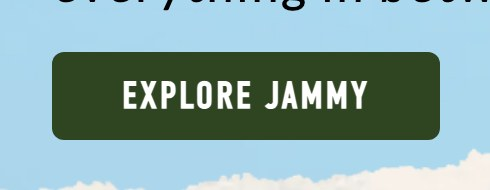
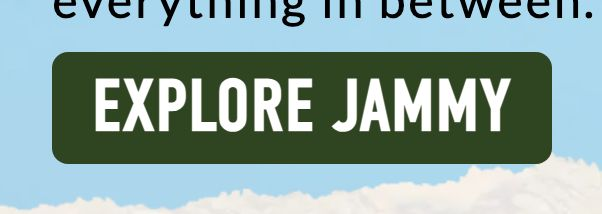
QA item 1: match the Jammy band's button to the page's other CTAs
The button was already DIN Condensed -- the face was never the problem -- but
its treatment was not. It set 20px with 1.6px of tracking (0.086em) and a 6px
radius, against the three other CTAs on the homepage ("Find a Store Near You",
"Learn More About Our Family Farms", "More Recipes") which all render 36px /
0.9px (0.025em) / 8px from `text-xl lg:text-4xl tracking-wide rounded-lg`. It
read small and loose beside them.

It now takes that same treatment, and matches exactly at 1440: 36px, 0.025em,
700, uppercase, 8px radius, same padding.

Getting there needed two things the base styles could not express, because at
900px and up this button is absolutely positioned inside the band's artwork
overlay:

- It was pinned to a fixed 5.955% height (~46px) and sized to fit it, which is
  what the old comment meant by "the site's primary buttons are 36px, but that
  will not sit in this band's 43.6px-tall button box". Sizing it to its
  content is what allows 36px at all.

- The type scales with the band (2.5cqw = 36px at a 1440 band) rather than
  being fixed. A fixed 56px button is a growing share of a shrinking band --
  8.6% at 1280, 10.75% at 1024 -- and it first ran past the 97.2% where the
  artwork's torn fringe bites, then, anchored from the bottom instead, up over
  the body copy's last line at 1024. Anchored just under that copy, which ends
  at a stable 87.3%, it clears both at every width: 6-11px under the copy,
  ending at 95.5-96.9%.
[…]

Changed region(s): [[0.0, 0.2368, 1.0, 1.0], [0.1531, 0.3421, 0.8571, 0.6316], [0.0612, 0.0, 1.0, 0.1316]]

diff --git a/scripts/qa/jammy/item1.js b/scripts/qa/jammy/item1.js
@@ -1,0 +1,91 @@
+const { chromium } = require('playwright');
+const R=[];const ck=(n,p,d='')=>{R.push(p);console.log(`${p?'PASS':'FAIL'}  ${n}${d?' — '+d:''}`)};
+
+// QA item 1: the Jammy band's button must read as one of the page's CTAs.
+//
+// It was already DIN Condensed -- the face was never the problem -- but at
+// 20px with 1.6px of tracking against the other CTAs' 36px/0.9px it read
+// small and loose. So this compares the button to a live sibling on the same
+// page rather than asserting numbers of its own: "Find a Store Near You",
+// "Learn More About Our Family Farms" and "More Recipes" all share one
+// treatment, and the Jammy button has to sit in that set.
+(async()=>{
+  const b=await chromium.launch();
+  for (const [w,label] of [[1440,'design width'],[1024,'narrow desktop'],[390,'phone']]) {
+    const p=await b.newContext({viewport:{width:w,height:1000}}).then(c=>c.newPage());
+    await p.goto('http://localhost:7500/',{waitUntil:'networkidle',timeout:60000});
+    await p.getByRole('region',{name:/cookie consent/i}).getByRole('button',{name:/reject all/i}).click().catch(()=>{});
+    const hh=await p.evaluate(()=>document.body.scrollHeight);
+    for(let y=0;y<hh;y+=700){await p.evaluate(v=>scrollTo(0,v),y);await p.waitForTimeout(80);}
+    await p.waitForTimeout(900);
+
+    const m=await p.evaluate(async()=>{
+      await document.fonts.ready;
+      const byText=re=>[...document.querySelectorAll('a,button')].find(e=>re.test(e.textContent.trim()));
+      const jammy=document.querySelector('.jammy-cta__cta');
+      const ref=byText(/find a store near you/i);
+      if(!jammy||!ref) return null;
+      const d=el=>{const cs=getComputedStyle(el);
+        return {ff:cs.fontFamily.split(',')[0].replace(/['"]/g,''),
+                fs:Math.round(parseFloat(cs.fontSize)),
+                fw:cs.fontWeight,
+                tt:cs.textTransform,
+                lsPerEm:+(parseFloat(cs.letterSpacing)/parseFloat(cs.fontSize)).toFixed(4),
+                radius:cs.borderRadius};};
+      // Does the face actually render, or is it silently falling back?
+      const c=document.createElement('canvas').getContext('2d');
+      const cs=getComputedStyle(jammy);
+      c.font=`${cs.fontWeight} ${cs.fontSize} ${cs.fontFamily}`;
+      const withFace=c.measureText('EXPLORE JAMMY').width;
+      c.font=`${cs.fontWeight} ${cs.fontSize} "Arial Narrow", sans-serif`;
+      const fallback=c.measureText('EXPLORE JAMMY').width;
+      // The band's overlay is absolutely positioned; the button must not
+      // collide with the copy above it nor run into the artwork's torn fringe.
+      const band=jammy.closest('section');
+      const body=band&&band.querySelector('.jammy-cta__body');
+      const r=jammy.getBoundingClientRect(), br=band.getBoundingClientRect();
+      return {jammy:d(jammy), ref:d(ref),
+              faceRenders: Math.abs(withFace-fallback)>0.5,
+              gapUnderCopy: body?Math.round(r.top-body.getBoundingClientRect().bottom):null,
+              endsPct:+(((r.bottom-br.top)/br.height)*100).toFixed(1),
+              overlaid:getComputedStyle(jammy).position==='absolute'};
+    });
+
+    console.log(`\n  --- ${label} (${w}px) ---`);
+    if(!m){ ck('found the Jammy button and a reference CTA', false); await p.close(); continue; }
+
+    ck('DIN Condensed, and actually rendering it',
+       m.jammy.ff==='din-condensed' && m.faceRenders, m.jammy.ff);
+    ck('same weight as the page\'s other CTAs', m.jammy.fw===m.ref.fw, `${m.jammy.fw} vs ${m.ref.fw}`);
+    ck('uppercase like the others', m.jammy.tt===m.ref.tt, `${m.jammy.tt} vs ${m.ref.tt}`);
+    // Tracking as a share of the type size, so it compares across sizes.
+    // The defect was 1.6px on 20px type (0.08em) against the CTAs' 0.025em.
+    ck('same tracking ratio', Math.abs(m.jammy.lsPerEm-m.ref.lsPerEm)<0.004,
+       `${m.jammy.lsPerEm}em vs ${m.ref.lsPerEm}em`);
+    ck('same corner radius', m.jammy.radius===m.ref.radius, `${m.jammy.radius} vs ${m.ref.radius}`);
+
+    if(w===1440)
+      // At the width the design is drawn for, the sizes must actually match.
+      // Below this the band's overlay scales its type in container units so
+      // the button stays inside the artwork, which is why this is not
+      // asserted at every breakpoint.
+      ck('same size at the design width', m.jammy.fs===m.ref.fs, `${m.jammy.fs}px vs ${m.ref.fs}px`);
+    else
+      ck('type is not smaller than the reference', m.jammy.fs>=m.ref.fs-11,
+         `${m.jammy.fs}px vs ${m.ref.fs}px`);
+
+    if(m.overlaid){
+      // Making the type bigger grew the button, and it has to stay inside the
+      // band: it covered the copy's last line at 1024 mid-fix, and ran into
+      // the torn fringe (which bites from 97.2%) when anchored the other way.
+      ck('clear of the body copy above it', m.gapUnderCopy===null || m.gapUnderCopy>=0,
+         `${m.gapUnderCopy}px`);
+      ck('clear of the artwork\'s torn fringe', m.endsPct<97.2, `ends at ${m.endsPct}%`);
+    }
+    await p.close();
+  }
+  await b.close();
+  const f=R.filter(x=>!x).length;
+  console.log(`\n${R.length-f}/${R.length} passed`);
+  process.exit(f?1:0);
+})();

diff --git a/styles/globals.css b/styles/globals.css
@@ -505,20 +505,30 @@
 }
 
 .jammy-cta__cta {
-  display: flex;
+  display: inline-flex;
   align-items: center;
   justify-content: center;
-  width: 100%;
-  min-height: 48px;
-  border-radius: 6px;
+  /* QA 2.1: match the page's other CTA buttons. All three of them -- "Find a
+     Store Near You", "Learn More About Our Family Farms" and "More Recipes"
+     -- render at 36px / 0.9px tracking / 700 in DIN Condensed, from the
+     Tailwind utilities `text-xl lg:text-4xl tracking-wide rounded-lg px-5
+     py-2`. The face was already right here; the treatment was not, and at
+     20px with 1.6px of tracking this button read small and loose beside them.
+     These values mirror the text-xl step. There is deliberately no
+     lg: step here: from 900px up the overlay below takes over and sizes the
+     button in container units, which is what keeps it inside the band. */
+  padding: 8px 20px;
+  border-radius: 8px;
   background: #2f4421;
   color: #ffffff;
-  /* QA 2.1: match the other buttons on the site, which use DIN Condensed
-     (loaded site-wide from the Typekit kit in _document). */
   font-family: din-condensed, "Arial Narrow", sans-serif;
   font-weight: 700;
   font-size: 20px;
-  letter-spacing: 1.6px;
+  /* Tailwind's text-xl / text-4xl carry their own line-height (1.75rem and
+     2.5rem). Without matching them this button inherited a 1.5 body value and
+     stood 70px tall against the other CTAs' 58px at the same type size. */
+  line-height: 1.75rem;
+  letter-spacing: 0.025em;
   text-transform: uppercase;
   text-decoration: none;
   transition: background 240ms ease, transform 240ms ease;
@@ -620,17 +630,38 @@
        copy. Ends at 95.5%; the torn fringe does not bite into the button's
        x-span until 97.2%, so this stays clear of it. */
     top: 89.5%;
-    width: 13.449%;
+    /* Width and height come from the type now, not from the overlay's own
+       box. The button previously held a fixed 5.955% height (~46px) and was
+       sized to fit it at ~18.7px, which is why it read small beside the
+       page's other CTAs -- those are 36px. Letting it size to its content is
+       what allows the shared 36px treatment here.
+
+       Anchored from the BOTTOM, not the top, and the type scales with the
+       band. This overlay is laid out in container units, so a fixed 36px
+       button is a growing share of the band as the viewport narrows -- 8.6%
+       at 1280, 10.75% at 1024 -- which pushed it past the 97.2% where the
+       artwork's torn fringe bites, and then, once anchored to the bottom,
+       up over the last line of the body copy.
+
+       2.5cqw is 36px at a 1440 band: the same size the page's other CTAs
+       take, at the width the design is drawn for. Below that it scales with
+       everything else in the overlay rather than crowding it. */
+    /* Anchored below the copy, which ends at a stable 87.3% of the band at
+       every width. A bottom anchor held the fringe clearance but let the
+       button drift up into that copy as the band shrank (-1px at 1024); a
+       fixed top anchor plus a height that no longer scales did the reverse.
+       88.4% sits just under the copy and, with the type scaling as below,
+       ends at 95-96% -- clear of the 97.2% where the torn fringe bites. */
+    top: 88.4%;
+    bottom: auto;
+    font-size: 2.5cqw;
+    line-height: 1.111;
+    width: auto;
     min-width: 0;
-    height: 5.955%;
+    height: auto;
     min-height: 0;
     margin: 0;
-    border-radius: 6px;
-    /* Was 1.115cqw (~16px at a 1440 band), which read small next to the rest of
-       the site. 1.3cqw is ~18.7px, matching the 18px DIN Condensed links in the
-       footer. The site's primary buttons are 36px, but that will not sit in
-       this band's 43.6px-tall button box. */
-    font-size: 1.3cqw;
+    border-radius: 8px;
   }
 }
 

diff --git a/scripts/qa/jammy/capture-evidence.js b/scripts/qa/jammy/capture-evidence.js
@@ -77,8 +77,15 @@ const FRAME={
   };
   await load(dJ,'/jammy'); await load(dH,'/'); await load(mJ,'/jammy');
 
+  // Optional id filter: `node capture-evidence.js 01` re-shoots one item.
+  // Without it every shot is rewritten, which silently restates the evidence
+  // for items the current change never touched.
+  const only=process.argv.slice(2).filter(a=>/^\d+$/.test(a)).map(a=>a.padStart(2,'0'));
+  const todo = only.length ? items.filter(it=>only.includes(String(it.id))) : items;
+  if(only.length) console.log(`  (only: ${only.join(', ')})`);
+
   let ok=0, fail=[];
-  for(const it of items){
+  for(const it of todo){
     const mobile = it.viewport==='mobile';
     const p = mobile ? mJ : (it.page==='/' ? dH : dJ);
     try{
